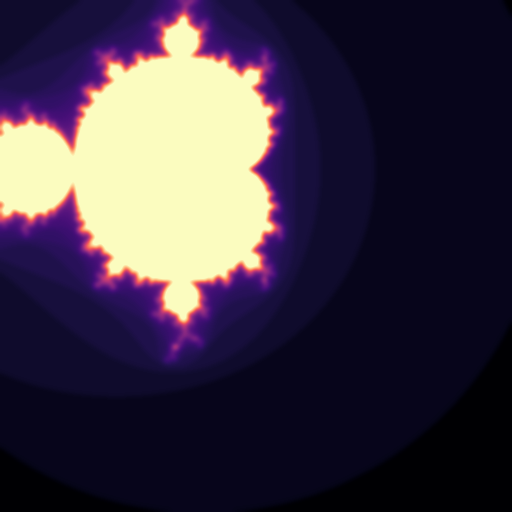
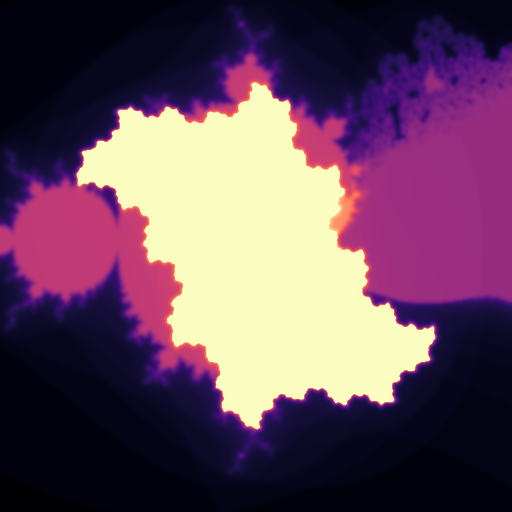
feat: use multiple fractals and layered compositing for detailed scenes
Agent-Logs-Url: https://github.com/haesleinhuepf/fractal-art/sessions/02047a3d-6d8d-4452-ad32-8cc719ef0ada

diff --git a/src/fractal_art/generator.py b/src/fractal_art/generator.py
@@ -6,7 +6,7 @@ import numpy as np
 from matplotlib import colormaps
 from matplotlib import image as mpimg
 from scipy.ndimage import gaussian_filter
-from skimage import exposure
+from skimage import exposure, transform
 
 THEMES = ("landscape", "tree", "planet", "nebula", "ocean")
 STYLES = ("classic", "neon", "pastel", "mono")
@@ -19,22 +19,16 @@ STYLE_CMAPS = {
 }
 
 
-def _fractal_field(size: int, seed: int, max_iter: int = 80) -> np.ndarray:
-    """Generate a normalized Mandelbrot-like fractal field.
+def _normalize(field: np.ndarray) -> np.ndarray:
+    return exposure.rescale_intensity(field, out_range=(0.0, 1.0))
 
-    Args:
-        size: Width and height of the square output field.
-        seed: Random seed controlling center and zoom variation.
-        max_iter: Maximum escape-time iterations.
 
-    Returns:
-        A 2D float array scaled to [0, 1].
-    """
+def _mandelbrot_field(size: int, seed: int, max_iter: int = 90) -> np.ndarray:
     rng = np.random.default_rng(seed)
     cx, cy = rng.uniform(-0.8, 0.8), rng.uniform(-0.8, 0.8)
-    zoom = rng.uniform(0.7, 1.6)
+    zoom = rng.uniform(0.7, 1.8)
 
-    axis = np.linspace(-1.5, 1.5, size)
+    axis = np.linspace(-1.6, 1.6, size)
     x, y = np.meshgrid(axis, axis)
     c = (x / zoom + cx) + 1j * (y / zoom + cy)
     z = np.zeros_like(c)
@@ -51,51 +45,215 @@ def _fractal_field(size: int, seed: int, max_iter: int = 80) -> np.ndarray:
             break
 
     field[active] = max_iter
-    field = gaussian_filter(field, sigma=1.2)
-    field = exposure.rescale_intensity(field, out_range=(0.0, 1.0))
-    return field
+    return _normalize(gaussian_filter(field, sigma=1.1))
 
 
-def _render_landscape(field: np.ndarray) -> np.ndarray:
-    """Transform a fractal field into a landscape-like grayscale map."""
-    gradient = np.gradient(field)[0]
-    terrain = np.clip(field * 1.4 - gradient * 0.6, 0.0, 1.0)
-    sky = np.linspace(0.15, 1.0, field.shape[0])[:, None]
-    return np.maximum(terrain, sky * 0.6)
+def _julia_field(size: int, seed: int, max_iter: int = 80) -> np.ndarray:
+    rng = np.random.default_rng(seed)
+    c = rng.uniform(-0.75, 0.75) + 1j * rng.uniform(-0.75, 0.75)
+
+    axis = np.linspace(-1.6, 1.6, size)
+    x, y = np.meshgrid(axis, axis)
+    z = x + 1j * y
+    field = np.zeros(z.shape, dtype=float)
+    active = np.ones(z.shape, dtype=bool)
+
+    for i in range(max_iter):
+        z[active] = z[active] * z[active] + c
+        escaped = np.abs(z) > 2.0
+        newly_escaped = escaped & active
+        field[newly_escaped] = i
+        active &= ~escaped
+        if not np.any(active):
+            break
+
+    field[active] = max_iter
+    return _normalize(gaussian_filter(field, sigma=1.0))
 
 
-def _render_tree(field: np.ndarray) -> np.ndarray:
-    """Transform a fractal field into a tree-like grayscale map."""
-    h, w = field.shape
-    y, x = np.indices((h, w))
-    x0 = w / 2
-    trunk = np.exp(-((x - x0) ** 2) / (2 * (w * 0.02) ** 2)) * (y > h * 0.45)
-    canopy = np.clip(field * (1.5 - y / h), 0.0, 1.0)
-    return np.clip(gaussian_filter(trunk + canopy, 1.0), 0.0, 1.0)
+def _burning_ship_field(size: int, seed: int, max_iter: int = 85) -> np.ndarray:
+    rng = np.random.default_rng(seed)
+    cx, cy = rng.uniform(-1.95, -1.55), rng.uniform(-0.15, 0.25)
+    zoom = rng.uniform(1.2, 2.2)
+
+    axis = np.linspace(-1.8, 1.8, size)
+    x, y = np.meshgrid(axis, axis)
+    c = (x / zoom + cx) + 1j * (y / zoom + cy)
+    z = np.zeros_like(c)
+    field = np.zeros(c.shape, dtype=float)
+    active = np.ones(c.shape, dtype=bool)
+
+    for i in range(max_iter):
+        zr = np.abs(z.real)
+        zi = np.abs(z.imag)
+        z[active] = (zr[active] + 1j * zi[active]) ** 2 + c[active]
+        escaped = np.abs(z) > 2.0
+        newly_escaped = escaped & active
+        field[newly_escaped] = i
+        active &= ~escaped
+        if not np.any(active):
+            break
+
+    field[active] = max_iter
+    return _normalize(gaussian_filter(field, sigma=1.0))
 
 
-def _render_planet(field: np.ndarray) -> np.ndarray:
-    """Transform a fractal field into a planet-like grayscale map."""
-    h, w = field.shape
-    y, x = np.indices((h, w))
-    r = min(h, w) * 0.34
-    cx, cy = w / 2, h / 2
-    mask = (x - cx) ** 2 + (y - cy) ** 2 <= r * r
-    img = np.zeros_like(field)
-    img[mask] = field[mask]
-    glow = gaussian_filter(mask.astype(float), sigma=8) * 0.5
-    return np.clip(img + glow, 0.0, 1.0)
+def _fractal_layers(size: int, seed: int) -> dict[str, np.ndarray]:
+    return {
+        "mandelbrot": _mandelbrot_field(size, seed + 11),
+        "julia": _julia_field(size, seed + 23),
+        "burning_ship": _burning_ship_field(size, seed + 37),
+    }
 
 
-def _render_nebula(field: np.ndarray) -> np.ndarray:
-    """Transform a fractal field into a nebula-like grayscale map."""
-    return np.clip(gaussian_filter(field ** 0.7, sigma=2.0) * 1.1, 0.0, 1.0)
+def _alpha_blend(canvas: np.ndarray, layer: np.ndarray, alpha: np.ndarray, top: int, left: int) -> None:
+    h, w = layer.shape
+    c_h, c_w = canvas.shape
+
+    y1, x1 = max(0, top), max(0, left)
+    y2, x2 = min(c_h, top + h), min(c_w, left + w)
+    if y1 >= y2 or x1 >= x2:
+        return
+
+    ly1, lx1 = y1 - top, x1 - left
+    ly2, lx2 = ly1 + (y2 - y1), lx1 + (x2 - x1)
+
+    a = np.clip(alpha[ly1:ly2, lx1:lx2], 0.0, 1.0)
+    canvas[y1:y2, x1:x2] = canvas[y1:y2, x1:x2] * (1.0 - a) + layer[ly1:ly2, lx1:lx2] * a
 
 
-def _render_ocean(field: np.ndarray) -> np.ndarray:
-    """Transform a fractal field into an ocean-like grayscale map."""
-    waves = np.sin(np.linspace(0, 8 * np.pi, field.shape[0]))[:, None] * 0.2
-    return np.clip(field * 0.8 + waves + 0.2, 0.0, 1.0)
+def _extract_tree_sprite(layers: dict[str, np.ndarray], seed: int) -> tuple[np.ndarray, np.ndarray]:
+    rng = np.random.default_rng(seed)
+    texture = _normalize(0.55 * layers["julia"] + 0.45 * layers["burning_ship"])
+    src_h, src_w = texture.shape
+
+    crop_h = int(rng.integers(src_h // 7, src_h // 5))
+    crop_w = int(rng.integers(src_w // 10, src_w // 7))
+    y0 = int(rng.integers(src_h // 5, src_h - crop_h - 1))
+    x0 = int(rng.integers(0, src_w - crop_w - 1))
+
+    crop = texture[y0 : y0 + crop_h, x0 : x0 + crop_w]
+    sprite = transform.resize(crop, (160, 96), anti_aliasing=True)
+
+    h, w = sprite.shape
+    yy, xx = np.indices((h, w))
+    center = w / 2
+    cone = (yy < h * 0.84) & (np.abs(xx - center) < (w * 0.52) * (1.0 - yy / (h * 0.9)))
+    trunk = (yy >= h * 0.58) & (np.abs(xx - center) < w * 0.08)
+    alpha = gaussian_filter((cone | trunk).astype(float), sigma=1.2)
+
+    detail = _normalize(gaussian_filter(sprite, sigma=0.8))
+    return np.clip(detail * alpha * 1.15, 0.0, 1.0), np.clip(alpha, 0.0, 1.0)
+
+
+def _add_planet(canvas: np.ndarray, texture: np.ndarray, center: tuple[int, int], radius: int) -> None:
+    patch = transform.resize(texture, (2 * radius, 2 * radius), anti_aliasing=True)
+    yy, xx = np.indices(patch.shape)
+    rr = np.sqrt((yy - radius) ** 2 + (xx - radius) ** 2)
+    mask = rr <= radius
+    highlight = np.clip(1.1 - rr / max(radius, 1), 0.0, 1.0)
+    planet = np.clip(patch * 0.8 + highlight * 0.28, 0.0, 1.0)
+    alpha = gaussian_filter(mask.astype(float), sigma=max(radius / 22, 1))
+    _alpha_blend(canvas, planet, alpha, center[0] - radius, center[1] - radius)
+
+
+def _render_landscape(layers: dict[str, np.ndarray], seed: int) -> np.ndarray:
+    rng = np.random.default_rng(seed)
+    size = layers["mandelbrot"].shape[0]
+
+    sky = _normalize(gaussian_filter(layers["julia"] ** 0.85, sigma=2.0))
+    terrain = np.clip(layers["mandelbrot"] * 1.4 - np.gradient(layers["mandelbrot"])[0] * 0.8, 0.0, 1.0)
+    fog = np.linspace(0.35, 0.0, size)[:, None]
+
+    canvas = np.clip(sky * 0.55 + fog, 0.0, 1.0)
+    horizon = int(size * 0.58)
+    canvas[horizon:, :] = np.maximum(canvas[horizon:, :], terrain[horizon:, :] * 0.95)
+
+    sprite, alpha = _extract_tree_sprite(layers, seed + 101)
+    for i in range(22):
+        scale = 0.45 + i / 32
+        tree = transform.resize(sprite, (int(sprite.shape[0] * scale), int(sprite.shape[1] * scale)), anti_aliasing=True)
+        a = transform.resize(alpha, tree.shape, anti_aliasing=True) * (0.6 + 0.35 * scale)
+        x = int((i / 22) * (size - tree.shape[1]) + rng.integers(-8, 8))
+        y = horizon + int(rng.integers(8, 36)) - tree.shape[0]
+        _alpha_blend(canvas, tree, a, y, x)
+
+    _add_planet(canvas, layers["burning_ship"], (int(size * 0.22), int(size * 0.78)), int(size * 0.08))
+    return np.clip(canvas, 0.0, 1.0)
+
+
+def _render_tree(layers: dict[str, np.ndarray], seed: int) -> np.ndarray:
+    rng = np.random.default_rng(seed)
+    size = layers["mandelbrot"].shape[0]
+
+    canvas = _normalize(0.3 * layers["julia"] + 0.35 * layers["burning_ship"])
+    canvas = np.clip(canvas * 0.5 + np.linspace(0.2, 0.8, size)[:, None] * 0.25, 0.0, 1.0)
+
+    sprite, alpha = _extract_tree_sprite(layers, seed + 301)
+    for row in range(3):
+        depth = 0.65 + row * 0.35
+        base_y = int(size * (0.52 + row * 0.12))
+        for col in range(9):
+            jitter = rng.integers(-12, 12)
+            scale = depth * (0.7 + rng.uniform(-0.08, 0.1))
+            tree = transform.resize(sprite, (int(sprite.shape[0] * scale), int(sprite.shape[1] * scale)), anti_aliasing=True)
+            a = transform.resize(alpha, tree.shape, anti_aliasing=True) * (0.55 + 0.25 * depth)
+            x = int(col * (size / 9) + jitter)
+            y = base_y - tree.shape[0]
+            _alpha_blend(canvas, tree, a, y, x)
+
+    return np.clip(canvas, 0.0, 1.0)
+
+
+def _render_planet(layers: dict[str, np.ndarray], seed: int) -> np.ndarray:
+    rng = np.random.default_rng(seed)
+    size = layers["mandelbrot"].shape[0]
+
+    stars = np.clip((layers["julia"] > 0.94).astype(float) * 0.9, 0.0, 1.0)
+    nebula = _normalize(gaussian_filter(0.45 * layers["julia"] + 0.55 * layers["burning_ship"], sigma=3.0))
+    canvas = np.clip(nebula * 0.55 + gaussian_filter(stars, sigma=0.7) * 0.6, 0.0, 1.0)
+
+    _add_planet(canvas, layers["burning_ship"], (int(size * 0.54), int(size * 0.42)), int(size * 0.22))
+    _add_planet(canvas, layers["mandelbrot"], (int(size * 0.22), int(size * 0.82)), int(size * 0.07))
+
+    sprite, alpha = _extract_tree_sprite(layers, seed + 401)
+    for i in range(7):
+        scale = 0.55 + i / 14
+        tree = transform.resize(sprite, (int(sprite.shape[0] * scale), int(sprite.shape[1] * scale)), anti_aliasing=True)
+        a = transform.resize(alpha, tree.shape, anti_aliasing=True) * 0.65
+        x = int((i / 7) * (size - tree.shape[1])) + int(rng.integers(-8, 8))
+        y = int(size * 0.9) - tree.shape[0]
+        _alpha_blend(canvas, tree * 0.5, a, y, x)
+
+    return np.clip(canvas, 0.0, 1.0)
+
+
+def _render_nebula(layers: dict[str, np.ndarray], seed: int) -> np.ndarray:
+    _ = seed
+    base = _normalize(0.38 * layers["mandelbrot"] + 0.34 * layers["julia"] + 0.28 * layers["burning_ship"])
+    filaments = np.clip(gaussian_filter(base ** 0.65, sigma=1.6) * 1.15, 0.0, 1.0)
+    stars = gaussian_filter((layers["julia"] > 0.96).astype(float), sigma=0.8) * 0.9
+    return np.clip(filaments * 0.85 + stars, 0.0, 1.0)
+
+
+def _render_ocean(layers: dict[str, np.ndarray], seed: int) -> np.ndarray:
+    size = layers["mandelbrot"].shape[0]
+    horizon = int(size * 0.52)
+
+    sky = _normalize(gaussian_filter(0.6 * layers["julia"] + 0.4 * layers["burning_ship"], sigma=1.8))
+    water = _normalize(gaussian_filter(0.55 * layers["mandelbrot"] + 0.45 * layers["julia"], sigma=1.2))
+    waves = np.sin(np.linspace(0, 22 * np.pi, size))[:, None] * 0.09
+
+    canvas = np.clip(sky * 0.58, 0.0, 1.0)
+    water_region = np.clip(water[horizon:, :] * 0.9 + waves[horizon:, :] + 0.08, 0.0, 1.0)
+    canvas[horizon:, :] = np.maximum(canvas[horizon:, :], water_region)
+
+    _add_planet(canvas, layers["burning_ship"], (int(size * 0.23), int(size * 0.72)), int(size * 0.09))
+
+    reflection = np.flipud(canvas[: size - horizon, :])
+    blend = np.clip(gaussian_filter(reflection, sigma=2.5) * 0.35, 0.0, 1.0)
+    canvas[horizon:, :] = np.maximum(canvas[horizon:, :], blend[: size - horizon, :])
+    return np.clip(canvas, 0.0, 1.0)
 
 
 RENDERERS = {
@@ -137,8 +295,8 @@ def generate_art(
     if size != 512:
         raise ValueError("Only 512x512 output is supported.")
 
-    field = _fractal_field(size=size, seed=seed)
-    grayscale = RENDERERS[theme](field)
+    layers = _fractal_layers(size=size, seed=seed)
+    grayscale = RENDERERS[theme](layers, seed)
     rgba = colormaps[STYLE_CMAPS[style]](grayscale)
     rgb = (rgba[:, :, :3] * 255).astype(np.uint8)
 
@@ -161,26 +319,26 @@ def generate_gallery(output_dir: str | Path) -> list[Path]:
     output.mkdir(parents=True, exist_ok=True)
 
     combos = [
-        ("landscape", "classic", 1),
-        ("landscape", "neon", 2),
-        ("landscape", "pastel", 3),
-        ("landscape", "mono", 4),
-        ("tree", "classic", 5),
-        ("tree", "neon", 6),
-        ("tree", "pastel", 7),
-        ("tree", "mono", 8),
-        ("planet", "classic", 9),
-        ("planet", "neon", 10),
-        ("planet", "pastel", 11),
-        ("planet", "mono", 12),
-        ("nebula", "classic", 13),
-        ("nebula", "neon", 14),
-        ("nebula", "pastel", 15),
-        ("nebula", "mono", 16),
-        ("ocean", "classic", 17),
-        ("ocean", "neon", 18),
-        ("ocean", "pastel", 19),
-        ("ocean", "mono", 20),
+        ("landscape", "classic", 101),
+        ("landscape", "neon", 102),
+        ("landscape", "pastel", 103),
+        ("landscape", "mono", 104),
+        ("tree", "classic", 201),
+        ("tree", "neon", 202),
+        ("tree", "pastel", 203),
+        ("tree", "mono", 204),
+        ("planet", "classic", 301),
+        ("planet", "neon", 302),
+        ("planet", "pastel", 303),
+        ("planet", "mono", 304),
+        ("nebula", "classic", 401),
+        ("nebula", "neon", 402),
+        ("nebula", "pastel", 403),
+        ("nebula", "mono", 404),
+        ("ocean", "classic", 501),
+        ("ocean", "neon", 502),
+        ("ocean", "pastel", 503),
+        ("ocean", "mono", 504),
     ]
 
     paths: list[Path] = []

diff --git a/tests/test_generator.py b/tests/test_generator.py
@@ -4,7 +4,7 @@ from pathlib import Path
 
 from PIL import Image
 
-from fractal_art import generate_art
+from fractal_art import generate_art, generate_gallery
 
 
 class TestGenerator(unittest.TestCase):
@@ -21,6 +21,13 @@ class TestGenerator(unittest.TestCase):
             output = Path(tmp) / "invalid.png"
             with self.assertRaisesRegex(ValueError, "Only 512x512 output is supported\\."):
                 generate_art(output, size=256)
+
+    def test_generate_gallery_outputs_20_images(self):
+        with tempfile.TemporaryDirectory() as tmp:
+            paths = generate_gallery(tmp)
+            self.assertEqual(len(paths), 20)
+            with Image.open(paths[0]) as image:
+                self.assertEqual(image.size, (512, 512))
 
 
 if __name__ == "__main__":

diff --git a/README.md b/README.md
@@ -6,6 +6,8 @@ A Python package for generating 512x512 fractal art PNG images using common scie
 - `matplotlib`
 - `scikit-image`
 
+The generator combines multiple fractal families (`Mandelbrot`, `Julia`, and `Burning Ship`) and composites cropped fractal elements (for example tree sprites) into layered scenes for richer artwork.
+
 ## Installation
 
 ```bash
@@ -49,6 +51,8 @@ generate_art(
 ```
 
 ## 20 example artworks
+
+![Detailed gallery screenshot](examples/showcase_detailed.png)
 
 | # | Preview |
 |---|---|
